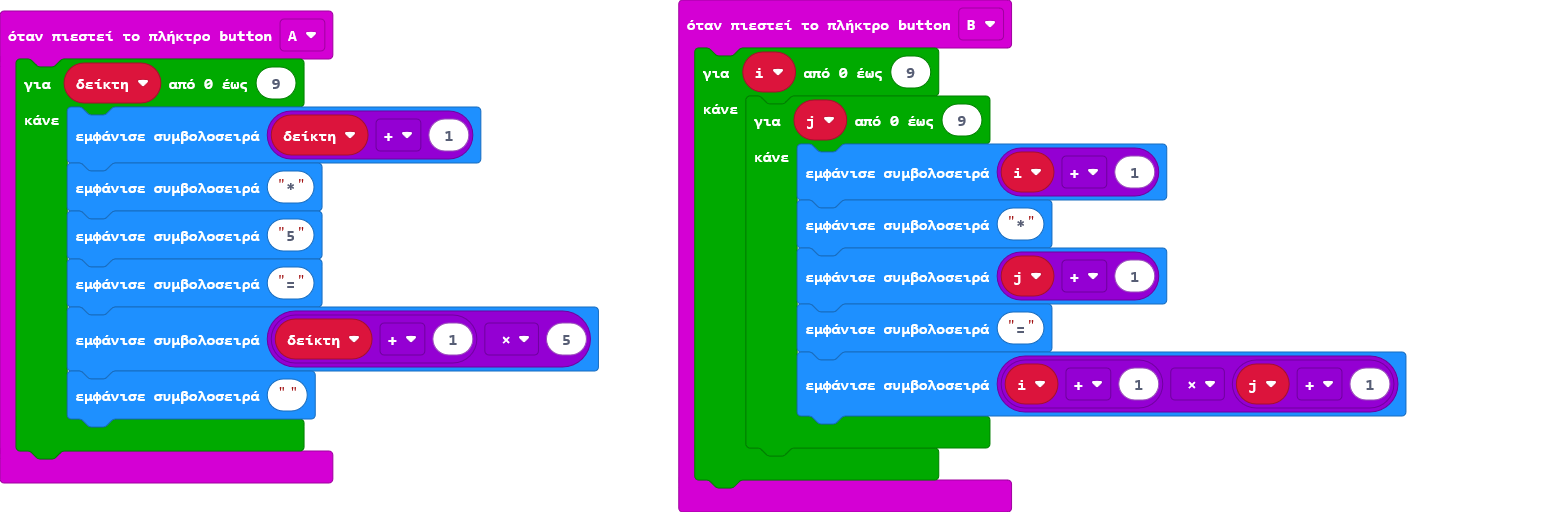
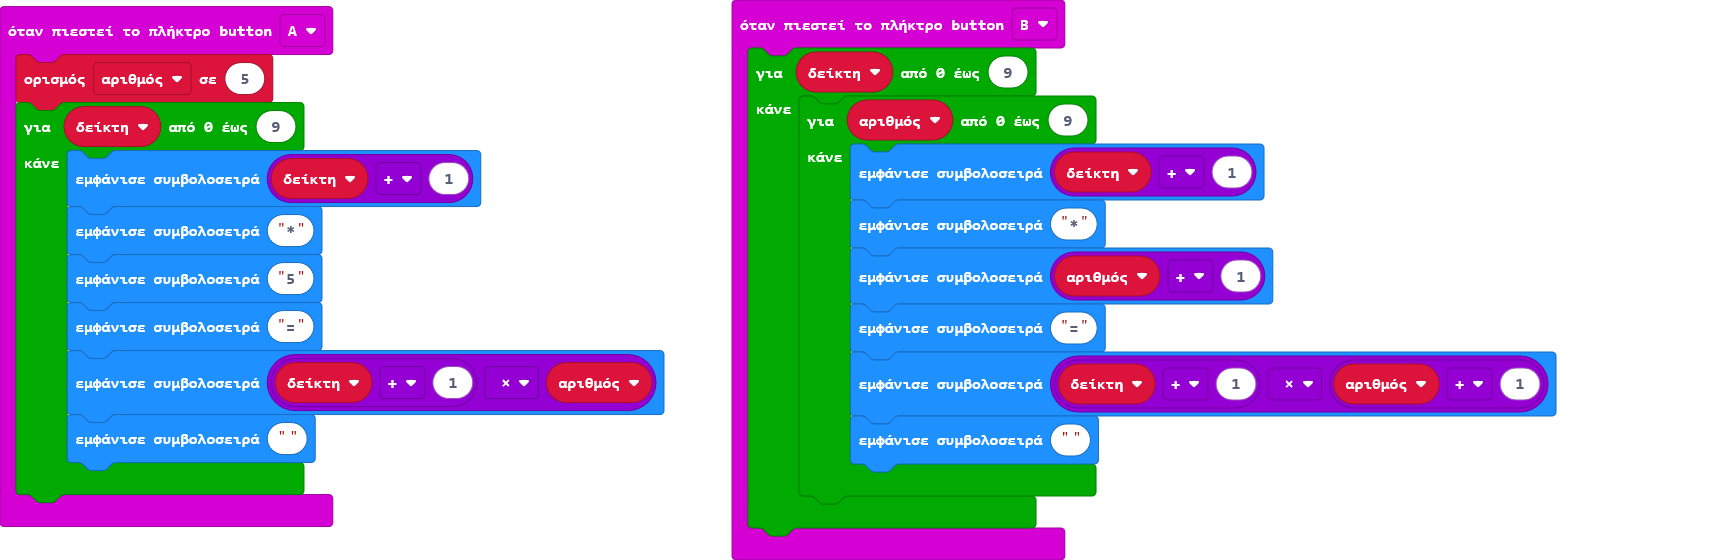
Ενημέρωση main.blocks, main.ts

Changed region(s): [[0.0, 0.0, 0.9219, 1.0]]

diff --git a/main.ts b/main.ts
@@ -1,21 +1,24 @@
+let αριθμός = 0
 input.onButtonPressed(Button.A, function () {
+    αριθμός = 5
     for (let δείκτη = 0; δείκτη <= 9; δείκτη++) {
         basic.showString("" + (δείκτη + 1))
         basic.showString("*")
         basic.showString("5")
         basic.showString("=")
-        basic.showString("" + ((δείκτη + 1) * 5))
+        basic.showString("" + ((δείκτη + 1) * αριθμός))
         basic.showString("")
     }
 })
 input.onButtonPressed(Button.B, function () {
-    for (let i = 0; i <= 9; i++) {
-        for (let j = 0; j <= 9; j++) {
-            basic.showString("" + (i + 1))
+    for (let δείκτη = 0; δείκτη <= 9; δείκτη++) {
+        for (let αριθμός = 0; αριθμός <= 9; αριθμός++) {
+            basic.showString("" + (δείκτη + 1))
             basic.showString("*")
-            basic.showString("" + (j + 1))
+            basic.showString("" + (αριθμός + 1))
             basic.showString("=")
-            basic.showString("" + ((i + 1) * (j + 1)))
+            basic.showString("" + ((δείκτη + 1) * (αριθμός + 1)))
+            basic.showString("")
         }
     }
 })
